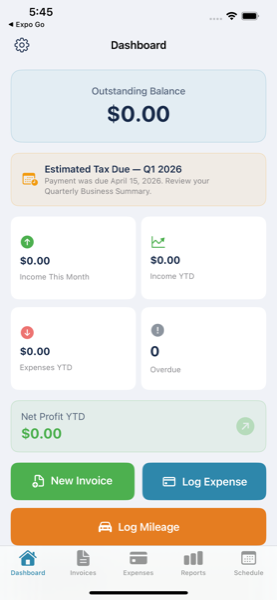
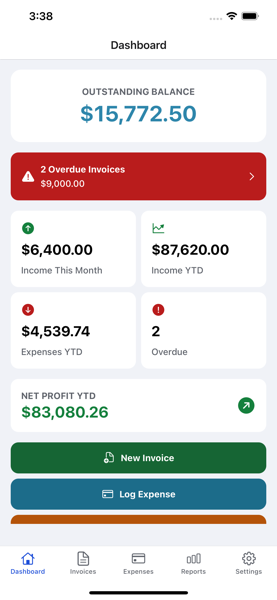
Add 1099Work Ledger Play link, promote above APES Prep, refresh screenshots
1099Work Ledger launched on Google Play 2026-07-20, so it's now live on
both stores. Site updates:

- Add the Google Play button to the 1099Work Ledger card
- Swap the hero launch pill from Vetrics to 1099Work Ledger
- Move "For Independent Work" above "For Students"; the
  feature-card-reverse class moves with the slot, not the app, so the
  copy/screens zigzag is preserved
- Replace the hero's third phone (APES Prep -> 1099Work dashboard)

Also re-captured all three 1099Work screenshots. The old ones were Expo
Go captures of an unseeded install -- they carried an "Expo Go" status
bar and showed $0.00 / "No Invoices Yet", which read as an app nobody
uses. New shots come from the installed build on an iPhone 13 Pro Max
simulator against the seeded demo profile. 1099wl-04 changes from the
Reports menu to the Profit & Loss detail, which shows the app working
rather than just its navigation.

diff --git a/index.html b/index.html
@@ -29,7 +29,7 @@
     <section class="hero">
       <div class="hero-inner">
         <div class="hero-copy fade-in">
-          <a class="launch-pill" href="#apps"><span class="pill-tag">New</span> Vetrics is now on the App Store &amp; Google Play</a>
+          <a class="launch-pill" href="#apps"><span class="pill-tag">New</span> 1099Work Ledger is now on the App Store &amp; Google Play</a>
           <p class="eyebrow">Veterinarian-built software studio</p>
           <h1>Useful apps for real shifts, study sessions, and solo work.</h1>
           <p class="hero-lede">
@@ -44,7 +44,7 @@
         <div class="hero-showcase fade-in" aria-label="App screenshots">
           <img class="phone-shot phone-shot-primary" src="images/vetrics-02.png" alt="Vetrics CPR Code Runner screen">
           <img class="phone-shot phone-shot-secondary" src="images/pettoxic-01.png" alt="Pet Toxic app home screen">
-          <img class="phone-shot phone-shot-tertiary" src="images/apesprep-03.png" alt="APES Prep practice screen">
+          <img class="phone-shot phone-shot-tertiary" src="images/1099wl-01.png" alt="1099Work Ledger dashboard screen">
         </div>
       </div>
     </section>
@@ -157,10 +157,38 @@
 
         <div class="app-family fade-in">
           <div class="family-heading">
+            <p class="eyebrow">For Independent Work</p>
+            <h3>Administrative tools for solo professionals.</h3>
+          </div>
+          <article class="feature-card accent-blue">
+            <div class="feature-copy">
+              <div class="product-header">
+                <img src="images/1099Logo1.png" alt="1099Work Ledger icon" class="app-icon">
+                <div>
+                  <h4>1099Work Ledger</h4>
+                  <span class="status-badge available">Available</span>
+                </div>
+              </div>
+              <p class="product-line">Shift scheduling, invoices, expenses, mileage, tax reminders, and profit-and-loss reporting for 1099 contractors.</p>
+              <div class="app-actions">
+                <a href="https://apps.apple.com/us/app/1099work-ledger/id6759871840" class="btn btn-primary" target="_blank" rel="noopener">App Store</a>
+                <a href="https://play.google.com/store/apps/details?id=com.smallanimalsurgeries.workledger1099" class="btn btn-secondary" target="_blank" rel="noopener">Google Play</a>
+              </div>
+            </div>
+            <div class="feature-screens">
+              <img src="images/1099wl-01.png" alt="1099Work Ledger dashboard">
+              <img src="images/1099wl-02.png" alt="1099Work Ledger invoice list">
+              <img src="images/1099wl-04.png" alt="1099Work Ledger profit and loss report">
+            </div>
+          </article>
+        </div>
+
+        <div class="app-family fade-in">
+          <div class="family-heading">
             <p class="eyebrow">For Students</p>
             <h3>Focused practice without accounts, ads, or noise.</h3>
           </div>
-          <article class="feature-card accent-green">
+          <article class="feature-card feature-card-reverse accent-green">
             <div class="feature-copy">
               <div class="product-header">
                 <img src="images/apesprepLogo.png" alt="APES Prep icon" class="app-icon">
@@ -179,33 +207,6 @@
               <img src="images/apesprep-01.png" alt="APES Prep home screen">
               <img src="images/apesprep-03.png" alt="APES Prep practice screen">
               <img src="images/apesprep-04.png" alt="APES Prep exam screen">
-            </div>
-          </article>
-        </div>
-
-        <div class="app-family fade-in">
-          <div class="family-heading">
-            <p class="eyebrow">For Independent Work</p>
-            <h3>Administrative tools for solo professionals.</h3>
-          </div>
-          <article class="feature-card feature-card-reverse accent-blue">
-            <div class="feature-copy">
-              <div class="product-header">
-                <img src="images/1099Logo1.png" alt="1099Work Ledger icon" class="app-icon">
-                <div>
-                  <h4>1099Work Ledger</h4>
-                  <span class="status-badge available">Available</span>
-                </div>
-              </div>
-              <p class="product-line">Shift scheduling, invoices, expenses, mileage, tax reminders, and profit-and-loss reporting for 1099 contractors.</p>
-              <div class="app-actions">
-                <a href="https://apps.apple.com/us/app/1099work-ledger/id6759871840" class="btn btn-primary" target="_blank" rel="noopener">App Store</a>
-              </div>
-            </div>
-            <div class="feature-screens">
-              <img src="images/1099wl-01.png" alt="1099Work Ledger dashboard">
-              <img src="images/1099wl-02.png" alt="1099Work Ledger invoices screen">
-              <img src="images/1099wl-04.png" alt="1099Work Ledger reports screen">
             </div>
           </article>
         </div>
